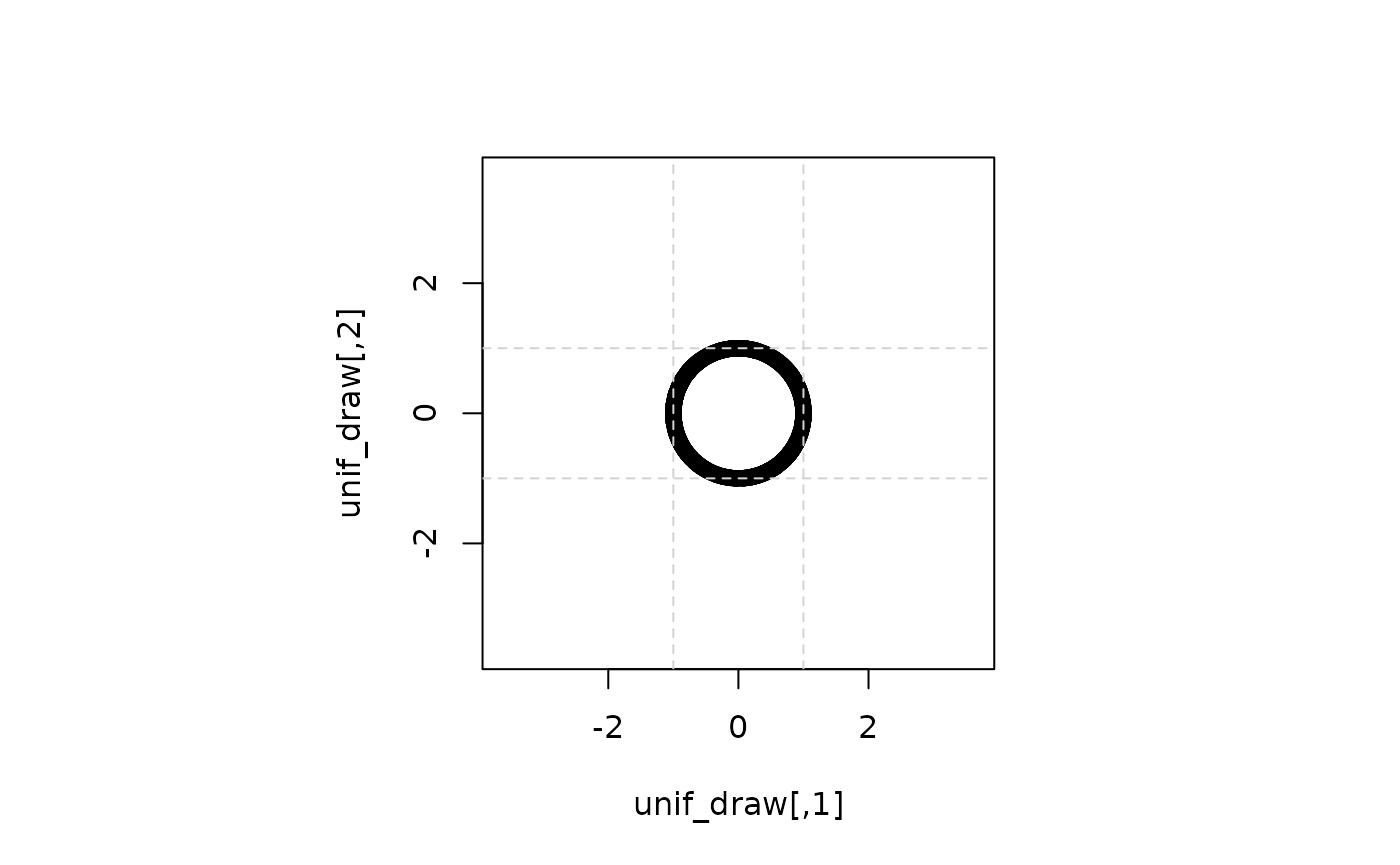
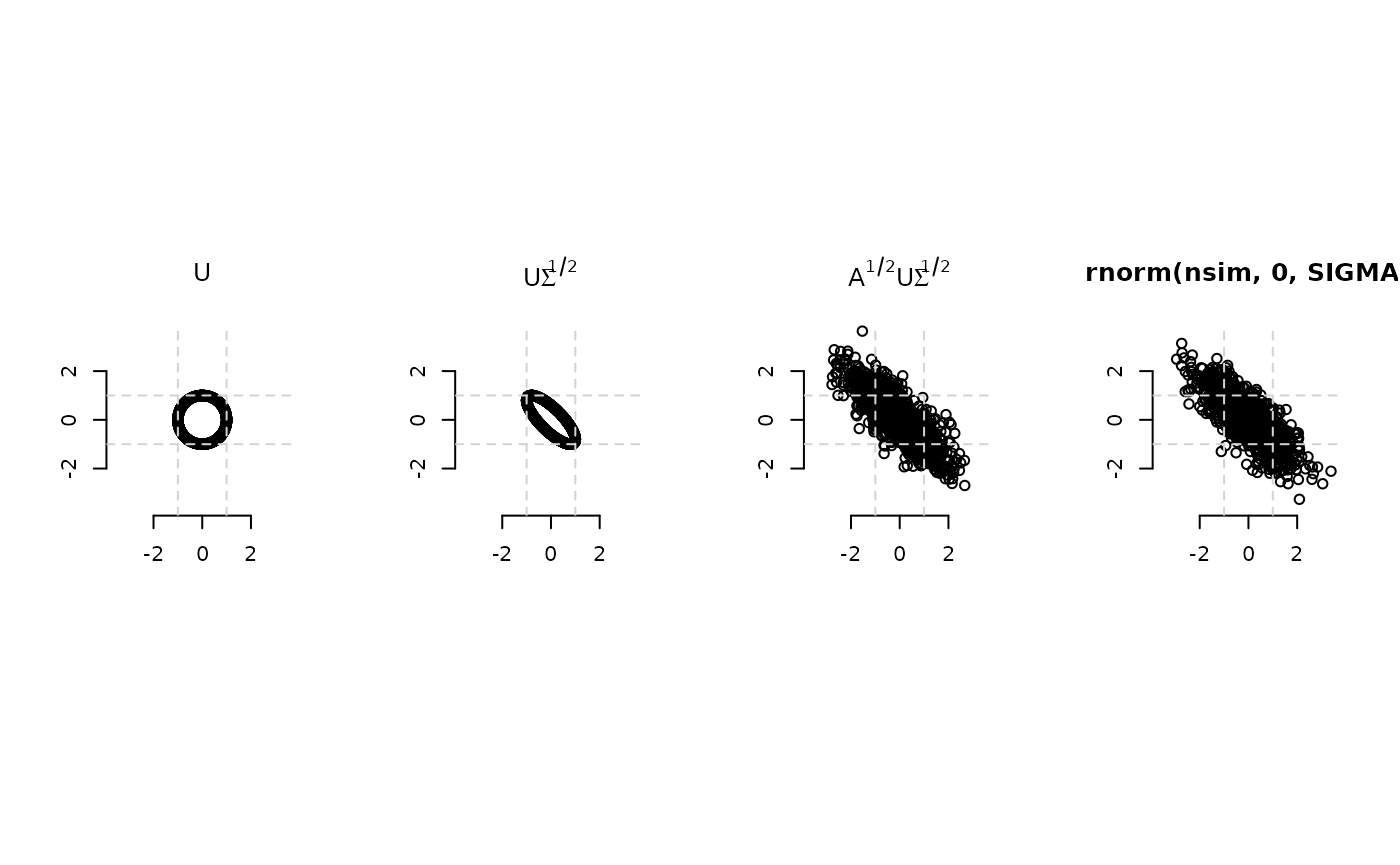
Deploying to gh-pages from @ swihart/mvpd@f543274490391e9867c3a8ea8b1b0d49e8f8492c 🚀

diff --git a/articles/intro.html b/articles/intro.html
@@ -110,38 +110,54 @@ the axes.</p>
 <span><span class="op">)</span></span></code></pre></div>
 <p>This is the uniform circle.</p>
 <div class="sourceCode" id="cb5"><pre class="downlit sourceCode r">
-<code class="sourceCode R"><span><span class="fu"><a href="https://rdrr.io/r/graphics/par.html" class="external-link">par</a></span><span class="op">(</span>pty<span class="op">=</span><span class="st">'s'</span><span class="op">)</span></span>
+<code class="sourceCode R"><span><span class="fu"><a href="https://rdrr.io/r/graphics/par.html" class="external-link">par</a></span><span class="op">(</span>pty<span class="op">=</span><span class="st">'s'</span>, mfrow<span class="op">=</span><span class="fu"><a href="https://rdrr.io/r/base/c.html" class="external-link">c</a></span><span class="op">(</span><span class="fl">1</span>,<span class="fl">4</span><span class="op">)</span>, bty<span class="op">=</span><span class="st">"n"</span>, oma<span class="op">=</span><span class="fu"><a href="https://rdrr.io/r/base/rep.html" class="external-link">rep</a></span><span class="op">(</span><span class="fl">.1</span>,<span class="fl">4</span><span class="op">)</span><span class="op">)</span></span>
 <span><span class="fu"><a href="https://rdrr.io/r/graphics/plot.default.html" class="external-link">plot</a></span><span class="op">(</span> <span class="va">unif_draw</span>, </span>
 <span>      xlim<span class="op">=</span><span class="va">maxrange</span><span class="op">*</span><span class="fu"><a href="https://rdrr.io/r/base/c.html" class="external-link">c</a></span><span class="op">(</span><span class="op">-</span><span class="fl">1</span>,<span class="fl">1</span><span class="op">)</span>,</span>
-<span>      ylim<span class="op">=</span><span class="va">maxrange</span><span class="op">*</span><span class="fu"><a href="https://rdrr.io/r/base/c.html" class="external-link">c</a></span><span class="op">(</span><span class="op">-</span><span class="fl">1</span>,<span class="fl">1</span><span class="op">)</span><span class="op">)</span></span>
-<span><span class="fu"><a href="https://rdrr.io/r/graphics/abline.html" class="external-link">abline</a></span><span class="op">(</span>h<span class="op">=</span><span class="fu"><a href="https://rdrr.io/r/base/c.html" class="external-link">c</a></span><span class="op">(</span><span class="op">-</span><span class="fl">1</span>,<span class="fl">1</span><span class="op">)</span>, v<span class="op">=</span><span class="fu"><a href="https://rdrr.io/r/base/c.html" class="external-link">c</a></span><span class="op">(</span><span class="op">-</span><span class="fl">1</span>,<span class="fl">1</span><span class="op">)</span>, lty<span class="op">=</span><span class="fl">2</span>, col<span class="op">=</span><span class="st">"lightgrey"</span><span class="op">)</span></span></code></pre></div>
-<p><img src="intro_files/figure-html/unnamed-chunk-5-1.png" width="700"></p>
-<p>This is the uniform circle transformed into an ellipse by
-chol(SIGMA).</p>
-<div class="sourceCode" id="cb6"><pre class="downlit sourceCode r">
-<code class="sourceCode R"><span><span class="fu"><a href="https://rdrr.io/r/graphics/par.html" class="external-link">par</a></span><span class="op">(</span>pty<span class="op">=</span><span class="st">'s'</span><span class="op">)</span></span>
+<span>      ylim<span class="op">=</span><span class="va">maxrange</span><span class="op">*</span><span class="fu"><a href="https://rdrr.io/r/base/c.html" class="external-link">c</a></span><span class="op">(</span><span class="op">-</span><span class="fl">1</span>,<span class="fl">1</span><span class="op">)</span>,</span>
+<span>      xlab<span class="op">=</span><span class="st">""</span>,</span>
+<span>      ylab<span class="op">=</span><span class="st">""</span>,</span>
+<span>      main<span class="op">=</span><span class="fu"><a href="https://rdrr.io/r/base/expression.html" class="external-link">expression</a></span><span class="op">(</span><span class="fu"><a href="https://rdrr.io/r/base/paste.html" class="external-link">paste</a></span><span class="op">(</span><span class="st">"U"</span><span class="op">)</span><span class="op">)</span><span class="op">)</span></span>
+<span><span class="fu"><a href="https://rdrr.io/r/graphics/abline.html" class="external-link">abline</a></span><span class="op">(</span>h<span class="op">=</span><span class="fu"><a href="https://rdrr.io/r/base/c.html" class="external-link">c</a></span><span class="op">(</span><span class="op">-</span><span class="fl">1</span>,<span class="fl">1</span><span class="op">)</span>, v<span class="op">=</span><span class="fu"><a href="https://rdrr.io/r/base/c.html" class="external-link">c</a></span><span class="op">(</span><span class="op">-</span><span class="fl">1</span>,<span class="fl">1</span><span class="op">)</span>, lty<span class="op">=</span><span class="fl">2</span>, col<span class="op">=</span><span class="st">"lightgrey"</span><span class="op">)</span></span>
+<span></span>
+<span><span class="fu"><a href="https://rdrr.io/r/graphics/par.html" class="external-link">par</a></span><span class="op">(</span>pty<span class="op">=</span><span class="st">'s'</span><span class="op">)</span></span>
 <span><span class="fu"><a href="https://rdrr.io/r/graphics/plot.default.html" class="external-link">plot</a></span><span class="op">(</span> <span class="va">unif_draw</span> <span class="op"><a href="https://rdrr.io/r/base/matmult.html" class="external-link">%*%</a></span> <span class="fu"><a href="https://rdrr.io/r/base/chol.html" class="external-link">chol</a></span><span class="op">(</span><span class="va">SIGMA</span><span class="op">)</span>, </span>
 <span>      xlim<span class="op">=</span><span class="va">maxrange</span><span class="op">*</span><span class="fu"><a href="https://rdrr.io/r/base/c.html" class="external-link">c</a></span><span class="op">(</span><span class="op">-</span><span class="fl">1</span>,<span class="fl">1</span><span class="op">)</span>,</span>
-<span>      ylim<span class="op">=</span><span class="va">maxrange</span><span class="op">*</span><span class="fu"><a href="https://rdrr.io/r/base/c.html" class="external-link">c</a></span><span class="op">(</span><span class="op">-</span><span class="fl">1</span>,<span class="fl">1</span><span class="op">)</span><span class="op">)</span></span>
-<span><span class="fu"><a href="https://rdrr.io/r/graphics/abline.html" class="external-link">abline</a></span><span class="op">(</span>h<span class="op">=</span><span class="fu"><a href="https://rdrr.io/r/base/c.html" class="external-link">c</a></span><span class="op">(</span><span class="op">-</span><span class="fl">1</span>,<span class="fl">1</span><span class="op">)</span>, v<span class="op">=</span><span class="fu"><a href="https://rdrr.io/r/base/c.html" class="external-link">c</a></span><span class="op">(</span><span class="op">-</span><span class="fl">1</span>,<span class="fl">1</span><span class="op">)</span>, lty<span class="op">=</span><span class="fl">2</span>, col<span class="op">=</span><span class="st">"lightgrey"</span><span class="op">)</span></span></code></pre></div>
-<p><img src="intro_files/figure-html/unnamed-chunk-6-1.png" width="700"></p>
-<p>This is the ellipse above, where each point is multiplied by a random
-draw from the mixing distribution.</p>
-<div class="sourceCode" id="cb7"><pre class="downlit sourceCode r">
-<code class="sourceCode R"><span><span class="fu"><a href="https://rdrr.io/r/graphics/par.html" class="external-link">par</a></span><span class="op">(</span>pty<span class="op">=</span><span class="st">'s'</span><span class="op">)</span></span>
+<span>      ylim<span class="op">=</span><span class="va">maxrange</span><span class="op">*</span><span class="fu"><a href="https://rdrr.io/r/base/c.html" class="external-link">c</a></span><span class="op">(</span><span class="op">-</span><span class="fl">1</span>,<span class="fl">1</span><span class="op">)</span>,</span>
+<span>      xlab<span class="op">=</span><span class="st">""</span>,</span>
+<span>      ylab<span class="op">=</span><span class="st">""</span>,</span>
+<span>      main<span class="op">=</span><span class="fu"><a href="https://rdrr.io/r/base/expression.html" class="external-link">expression</a></span><span class="op">(</span><span class="fu"><a href="https://rdrr.io/r/base/paste.html" class="external-link">paste</a></span><span class="op">(</span><span class="st">"U"</span>, <span class="va">Sigma</span><span class="op">^</span><span class="op">{</span><span class="fl">1</span><span class="op">/</span><span class="fl">2</span><span class="op">}</span><span class="op">)</span><span class="op">)</span><span class="op">)</span></span>
+<span><span class="fu"><a href="https://rdrr.io/r/graphics/abline.html" class="external-link">abline</a></span><span class="op">(</span>h<span class="op">=</span><span class="fu"><a href="https://rdrr.io/r/base/c.html" class="external-link">c</a></span><span class="op">(</span><span class="op">-</span><span class="fl">1</span>,<span class="fl">1</span><span class="op">)</span>, v<span class="op">=</span><span class="fu"><a href="https://rdrr.io/r/base/c.html" class="external-link">c</a></span><span class="op">(</span><span class="op">-</span><span class="fl">1</span>,<span class="fl">1</span><span class="op">)</span>, lty<span class="op">=</span><span class="fl">2</span>, col<span class="op">=</span><span class="st">"lightgrey"</span><span class="op">)</span></span>
+<span></span>
+<span><span class="fu"><a href="https://rdrr.io/r/graphics/par.html" class="external-link">par</a></span><span class="op">(</span>pty<span class="op">=</span><span class="st">'s'</span><span class="op">)</span></span>
 <span><span class="fu"><a href="https://rdrr.io/r/graphics/plot.default.html" class="external-link">plot</a></span><span class="op">(</span><span class="fu"><a href="https://rdrr.io/r/base/sign.html" class="external-link">sign</a></span><span class="op">(</span><span class="va">chisq_draw</span><span class="op">)</span><span class="op">*</span><span class="fu"><a href="https://rdrr.io/r/base/MathFun.html" class="external-link">sqrt</a></span><span class="op">(</span><span class="fu"><a href="https://rdrr.io/r/base/MathFun.html" class="external-link">abs</a></span><span class="op">(</span><span class="va">chisq_draw</span><span class="op">)</span><span class="op">)</span> <span class="op">*</span> <span class="va">unif_draw</span> <span class="op"><a href="https://rdrr.io/r/base/matmult.html" class="external-link">%*%</a></span> <span class="fu"><a href="https://rdrr.io/r/base/chol.html" class="external-link">chol</a></span><span class="op">(</span><span class="va">SIGMA</span><span class="op">)</span>, </span>
 <span>     xlim<span class="op">=</span><span class="va">maxrange</span><span class="op">*</span><span class="fu"><a href="https://rdrr.io/r/base/c.html" class="external-link">c</a></span><span class="op">(</span><span class="op">-</span><span class="fl">1</span>,<span class="fl">1</span><span class="op">)</span>,</span>
-<span>     ylim<span class="op">=</span><span class="va">maxrange</span><span class="op">*</span><span class="fu"><a href="https://rdrr.io/r/base/c.html" class="external-link">c</a></span><span class="op">(</span><span class="op">-</span><span class="fl">1</span>,<span class="fl">1</span><span class="op">)</span><span class="op">)</span></span>
-<span><span class="fu"><a href="https://rdrr.io/r/graphics/abline.html" class="external-link">abline</a></span><span class="op">(</span>h<span class="op">=</span><span class="fu"><a href="https://rdrr.io/r/base/c.html" class="external-link">c</a></span><span class="op">(</span><span class="op">-</span><span class="fl">1</span>,<span class="fl">1</span><span class="op">)</span>, v<span class="op">=</span><span class="fu"><a href="https://rdrr.io/r/base/c.html" class="external-link">c</a></span><span class="op">(</span><span class="op">-</span><span class="fl">1</span>,<span class="fl">1</span><span class="op">)</span>, lty<span class="op">=</span><span class="fl">2</span>, col<span class="op">=</span><span class="st">"lightgrey"</span><span class="op">)</span></span></code></pre></div>
-<p><img src="intro_files/figure-html/unnamed-chunk-7-1.png" width="700"></p>
-<p>And a MVN(0, Sigma) draw for comparison:</p>
-<div class="sourceCode" id="cb8"><pre class="downlit sourceCode r">
-<code class="sourceCode R"><span><span class="fu"><a href="https://rdrr.io/r/graphics/par.html" class="external-link">par</a></span><span class="op">(</span>pty<span class="op">=</span><span class="st">'s'</span><span class="op">)</span></span>
+<span>     ylim<span class="op">=</span><span class="va">maxrange</span><span class="op">*</span><span class="fu"><a href="https://rdrr.io/r/base/c.html" class="external-link">c</a></span><span class="op">(</span><span class="op">-</span><span class="fl">1</span>,<span class="fl">1</span><span class="op">)</span>,</span>
+<span>      xlab<span class="op">=</span><span class="st">""</span>,</span>
+<span>      ylab<span class="op">=</span><span class="st">""</span>,</span>
+<span>      main<span class="op">=</span><span class="fu"><a href="https://rdrr.io/r/base/expression.html" class="external-link">expression</a></span><span class="op">(</span><span class="fu"><a href="https://rdrr.io/r/base/paste.html" class="external-link">paste</a></span><span class="op">(</span><span class="va">A</span><span class="op">^</span><span class="op">{</span><span class="fl">1</span><span class="op">/</span><span class="fl">2</span><span class="op">}</span>,<span class="st">"U"</span>, <span class="va">Sigma</span><span class="op">^</span><span class="op">{</span><span class="fl">1</span><span class="op">/</span><span class="fl">2</span><span class="op">}</span><span class="op">)</span><span class="op">)</span><span class="op">)</span></span>
+<span><span class="fu"><a href="https://rdrr.io/r/graphics/abline.html" class="external-link">abline</a></span><span class="op">(</span>h<span class="op">=</span><span class="fu"><a href="https://rdrr.io/r/base/c.html" class="external-link">c</a></span><span class="op">(</span><span class="op">-</span><span class="fl">1</span>,<span class="fl">1</span><span class="op">)</span>, v<span class="op">=</span><span class="fu"><a href="https://rdrr.io/r/base/c.html" class="external-link">c</a></span><span class="op">(</span><span class="op">-</span><span class="fl">1</span>,<span class="fl">1</span><span class="op">)</span>, lty<span class="op">=</span><span class="fl">2</span>, col<span class="op">=</span><span class="st">"lightgrey"</span><span class="op">)</span></span>
+<span></span>
+<span></span>
+<span><span class="fu"><a href="https://rdrr.io/r/graphics/par.html" class="external-link">par</a></span><span class="op">(</span>pty<span class="op">=</span><span class="st">'s'</span><span class="op">)</span></span>
 <span><span class="fu"><a href="https://rdrr.io/r/graphics/plot.default.html" class="external-link">plot</a></span><span class="op">(</span><span class="fu">mvtnorm</span><span class="fu">::</span><span class="fu"><a href="https://rdrr.io/pkg/mvtnorm/man/Mvnorm.html" class="external-link">rmvnorm</a></span><span class="op">(</span><span class="va">nsim</span>, sigma<span class="op">=</span><span class="va">SIGMA</span><span class="op">)</span>,</span>
 <span>     xlim<span class="op">=</span><span class="va">maxrange</span><span class="op">*</span><span class="fu"><a href="https://rdrr.io/r/base/c.html" class="external-link">c</a></span><span class="op">(</span><span class="op">-</span><span class="fl">1</span>,<span class="fl">1</span><span class="op">)</span>,</span>
-<span>     ylim<span class="op">=</span><span class="va">maxrange</span><span class="op">*</span><span class="fu"><a href="https://rdrr.io/r/base/c.html" class="external-link">c</a></span><span class="op">(</span><span class="op">-</span><span class="fl">1</span>,<span class="fl">1</span><span class="op">)</span><span class="op">)</span></span>
+<span>     ylim<span class="op">=</span><span class="va">maxrange</span><span class="op">*</span><span class="fu"><a href="https://rdrr.io/r/base/c.html" class="external-link">c</a></span><span class="op">(</span><span class="op">-</span><span class="fl">1</span>,<span class="fl">1</span><span class="op">)</span>,</span>
+<span>      xlab<span class="op">=</span><span class="st">""</span>,</span>
+<span>      ylab<span class="op">=</span><span class="st">""</span>,</span>
+<span>      main<span class="op">=</span><span class="st">"rnorm(nsim, 0, SIGMA)"</span><span class="op">)</span></span>
 <span><span class="fu"><a href="https://rdrr.io/r/graphics/abline.html" class="external-link">abline</a></span><span class="op">(</span>h<span class="op">=</span><span class="fu"><a href="https://rdrr.io/r/base/c.html" class="external-link">c</a></span><span class="op">(</span><span class="op">-</span><span class="fl">1</span>,<span class="fl">1</span><span class="op">)</span>, v<span class="op">=</span><span class="fu"><a href="https://rdrr.io/r/base/c.html" class="external-link">c</a></span><span class="op">(</span><span class="op">-</span><span class="fl">1</span>,<span class="fl">1</span><span class="op">)</span>, lty<span class="op">=</span><span class="fl">2</span>, col<span class="op">=</span><span class="st">"lightgrey"</span><span class="op">)</span></span></code></pre></div>
-<p><img src="intro_files/figure-html/unnamed-chunk-8-1.png" width="700"></p>
+<p><img src="intro_files/figure-html/unnamed-chunk-5-1.png" width="700"></p>
+<p><math display="inline" xmlns="http://www.w3.org/1998/Math/MathML"><semantics><mi>U</mi><annotation encoding="application/x-tex">U</annotation></semantics></math>
+is the uniform circle transformed into an ellipse
+<math display="inline" xmlns="http://www.w3.org/1998/Math/MathML"><semantics><mrow><mi>U</mi><msup><mi>Σ</mi><mrow><mn>1</mn><mi>/</mi><mn>2</mn></mrow></msup></mrow><annotation encoding="application/x-tex">U \Sigma^{1/2}</annotation></semantics></math>,
+where
+<math display="inline" xmlns="http://www.w3.org/1998/Math/MathML"><semantics><msup><mi>Σ</mi><mrow><mn>1</mn><mi>/</mi><mn>2</mn></mrow></msup><annotation encoding="application/x-tex">\Sigma^{1/2}</annotation></semantics></math>
+= (R-code: <code>chol(SIGMA)</code>).</p>
+<p>Then each point of the ellipse is multiplied by the square root of
+the random draw from the mixing distribution
+<math display="inline" xmlns="http://www.w3.org/1998/Math/MathML"><semantics><mi>A</mi><annotation encoding="application/x-tex">A</annotation></semantics></math>.</p>
+<p>And a MVN(0, Sigma) draw for comparison, as procured by
+<code>rnorm(nsim,0,SIGMA)</code>.</p>
   </main>
 </div>
 
